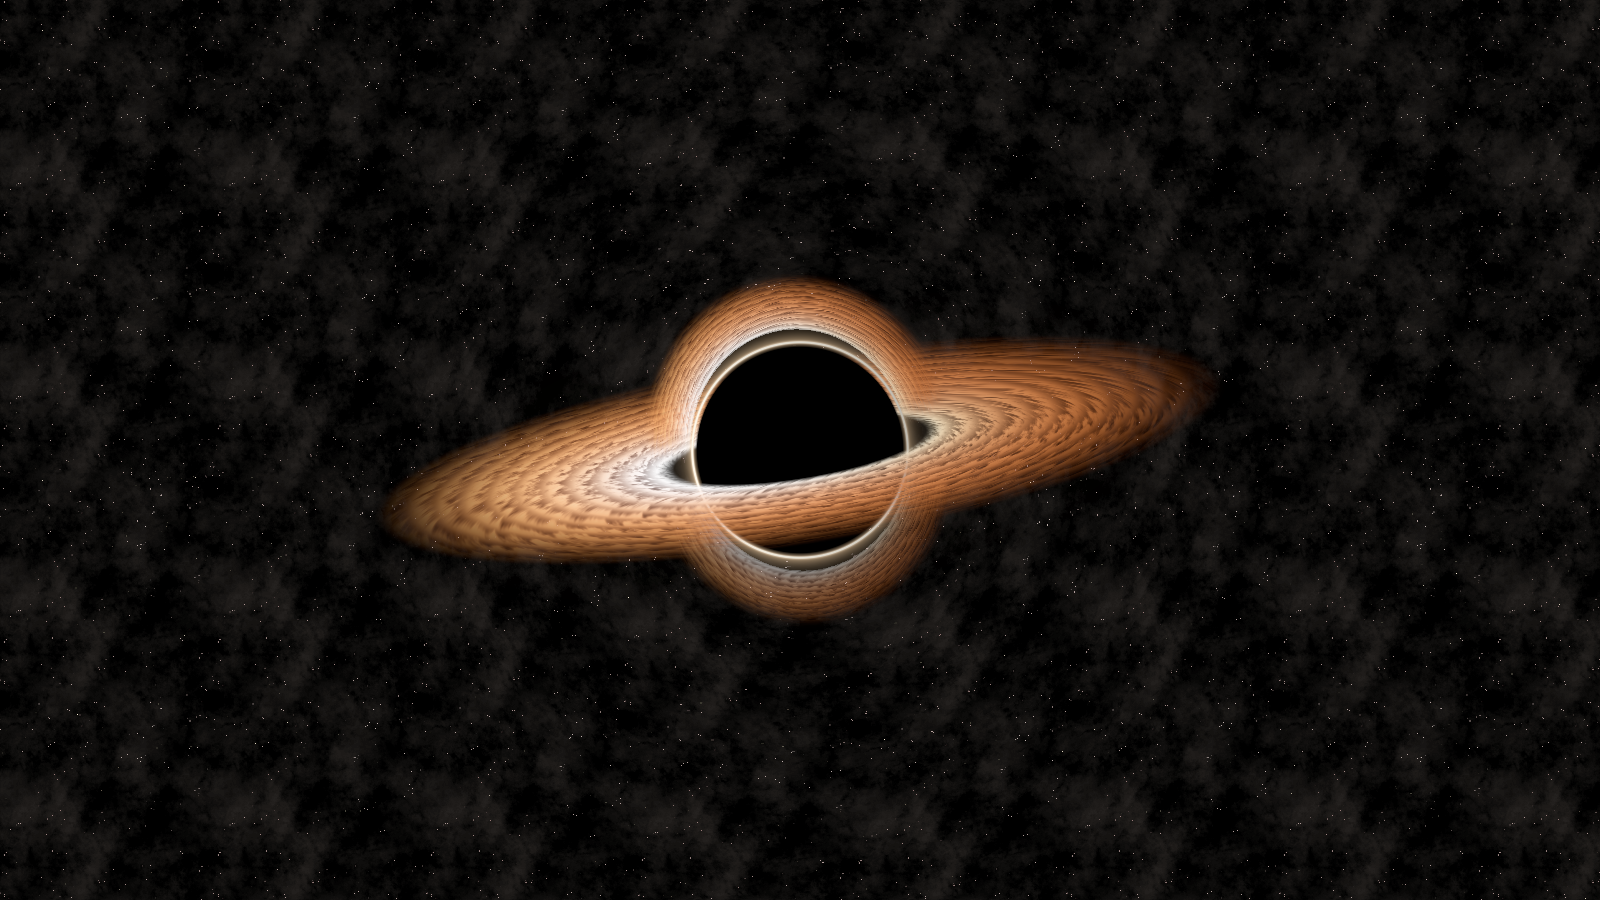
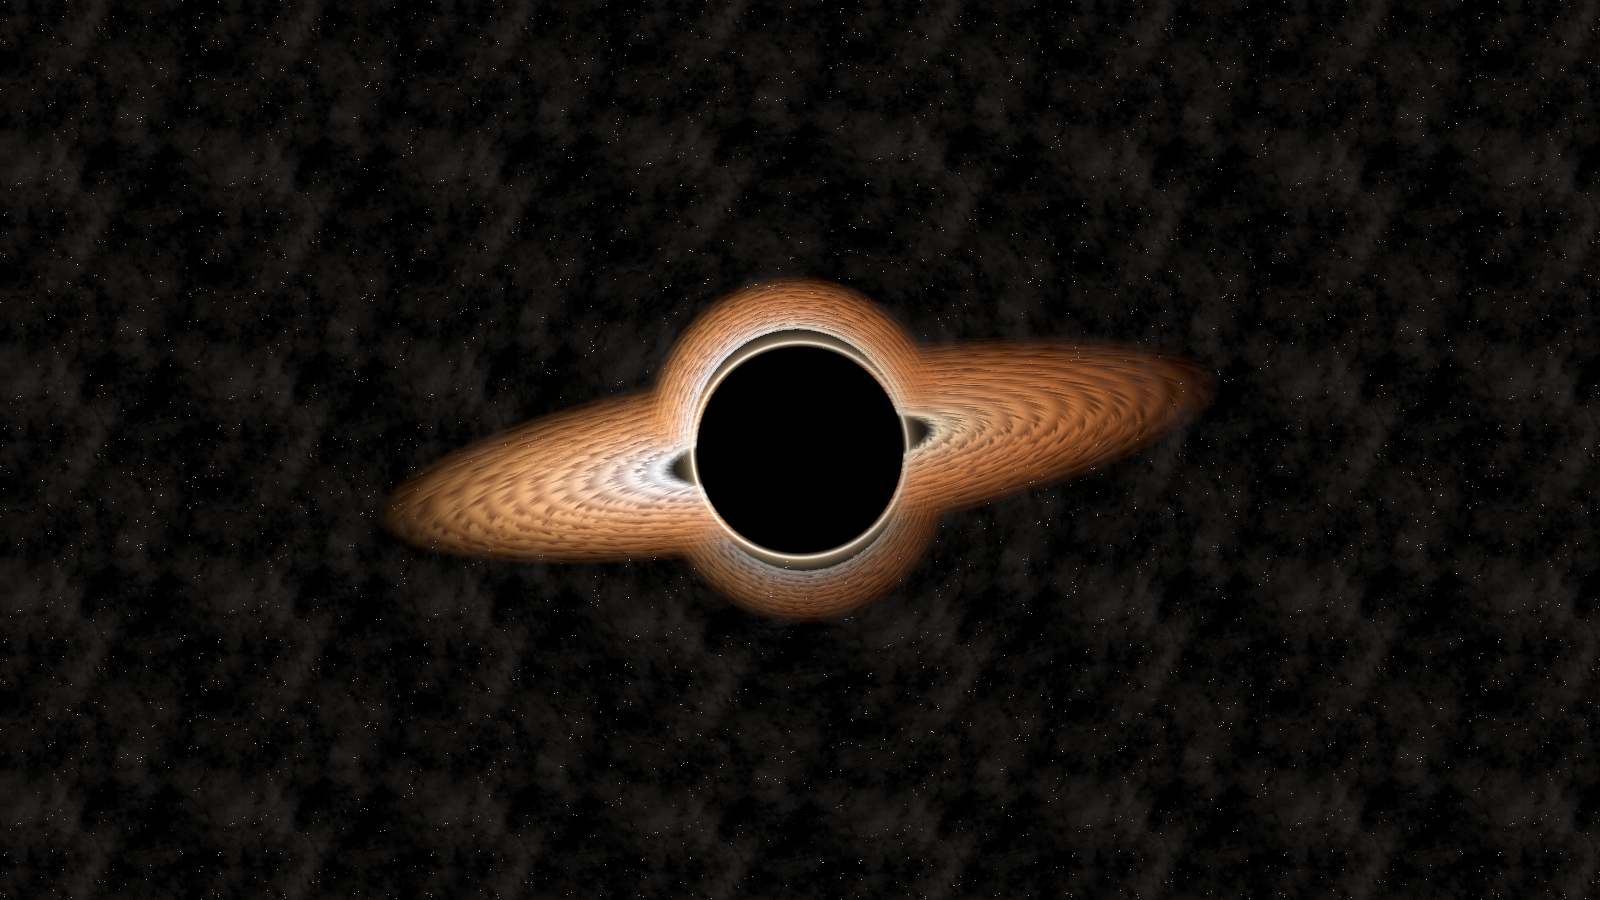
Keep the black-hole shadow in front of the accretion disk

Changed region(s): [[0.2812, 0.4044, 0.7188, 0.6533], [0.4375, 0.3111, 0.5625, 0.4044]]

diff --git a/Content.Client/_WF/BlackHole/README.md b/Content.Client/_WF/BlackHole/README.md
@@ -2,7 +2,8 @@
 
 Kyphrus appears as an accreting black hole behind the sector: a black shadow, a hot photon ring,
 rotating plasma streams, a disk bent into upper and lower images, and gravitational lensing of the
-space background. The accretion disk supplies warm light through the existing stellar lighting system.
+space background. The dark center and photon ring occlude both disk halves, so plasma wraps around
+the silhouette. The accretion disk supplies warm light through the existing stellar lighting system.
 
 `StarKyphrus` selects the `WFBlackHole` shader. Its prototype exposes disk inclination, rotation speed
 and lens strength. `BlackHoleVisuals` shares apparent size and parallax between the shader and offscreen
